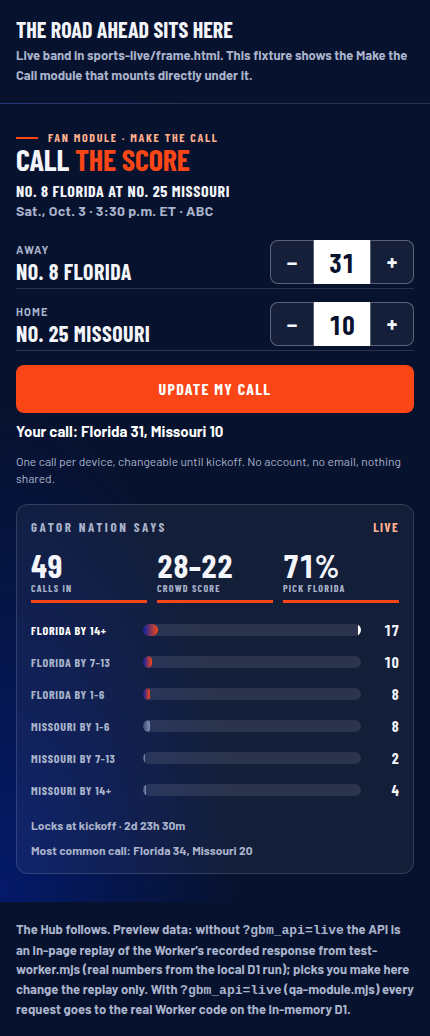
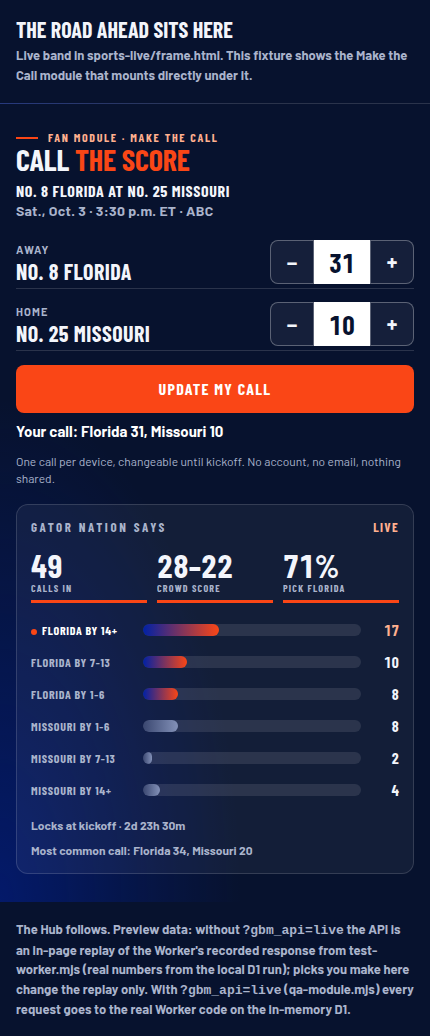
Department ideas, round two: Web ships Make the Call, score picks on a Cloudflare Worker and D1, proved locally and in the browser
29 Worker checks pass on an in-memory D1 shim and under wrangler dev; 6 Playwright checks at 320/390/430/1365 show no overflow and zero layout jump. Dev database gatorbait-dev-make-the-call created in the account with the schema and one seeded game row; nothing deployed.

Claude-Session: https://claude.ai/code/session_01QUnBu7zkHLGEmUEfSvE4Wp

Changed region(s): [[0.3326, 0.5869, 0.514, 0.7722], [0.0605, 0.5869, 0.2721, 0.6178], [0.907, 0.5869, 0.9372, 0.6178]]

diff --git a/deploy/dept-ideas/web/module.css b/deploy/dept-ideas/web/module.css
@@ -44,10 +44,11 @@
 #gbm-live.fp26 #gbm-call .bins li{display:grid;grid-template-columns:104px minmax(0,1fr) 30px;align-items:center;gap:8px;height:26px}
 #gbm-live.fp26 #gbm-call .bins .lb{font:700 12px/1 var(--fp-cond);letter-spacing:.06em;text-transform:uppercase;color:var(--mut);white-space:nowrap;overflow:hidden;text-overflow:ellipsis}
 #gbm-live.fp26 #gbm-call .bins li.mine .lb{color:#fff}
+#gbm-live.fp26 #gbm-call .bins li.mine .lb::before{content:"";display:inline-block;width:6px;height:6px;border-radius:50%;background:var(--o);margin:0 5px 1px 0;vertical-align:middle}
+#gbm-live.fp26 #gbm-call .bins li.mine b{color:#ffb08f}
 #gbm-live.fp26 #gbm-call .bins .bar{position:relative;height:12px;border-radius:6px;background:rgba(255,255,255,.1);overflow:hidden}
 #gbm-live.fp26 #gbm-call .bins .bar i{position:absolute;left:0;top:0;bottom:0;width:0;background:linear-gradient(90deg,var(--b),var(--o));border-radius:6px;transition:width .9s cubic-bezier(.2,.7,.2,1)}
 #gbm-live.fp26 #gbm-call .bins li.opp .bar i{background:linear-gradient(90deg,#3a4770,#8391b8)}
-#gbm-live.fp26 #gbm-call .bins li.mine .bar::after{content:"";position:absolute;right:0;top:0;bottom:0;width:3px;background:#fff}
 #gbm-live.fp26 #gbm-call .bins b{font:800 15px/1 var(--fp-cond);font-variant-numeric:tabular-nums;text-align:right}
 #gbm-live.fp26 #gbm-call .lock{display:flex;justify-content:space-between;gap:8px 16px;flex-wrap:wrap;margin:0;min-height:20px;font:600 12px/1.4 var(--fp-sans);color:var(--mut)}
 #gbm-live.fp26 #gbm-call .lock b{color:#fff;font-weight:700}

diff --git a/deploy/dept-ideas/web/PITCH.md b/deploy/dept-ideas/web/PITCH.md
@@ -1,37 +1,45 @@
-# Read Next — a smart related-story rail for every article page
+# Make the Call
 
-## 1) The idea (two sentences)
+## The idea
 
-Read Next is a three-card rail at the end of every gatorbaitmedia.com story that picks the next stories for that reader by shared opponent, player and coach names, same writer and freshness, using the feed the homepage already has in hand, and it never shows a story the reader has already opened on that device. It replaces "2–3 genuinely related stories, not a generic feed dump" (docs/ARTICLE-PAGE-STANDARD.md) as a hand-picked chore with something that is right on every story, including the ones nobody had time to tag.
+A score-pick module under The Road Ahead on the front page: a fan types Florida's score and Missouri's score, taps Lock my call, and sees Gator Nation's live distribution (calls in, the crowd's average score, the share picking Florida, six margin bins and the most common exact call). Picks lock at kickoff, one call per device with no account, and the whole thing runs on a Cloudflare Worker with a D1 database that exists in the account today and is exercised end to end by tests in this folder. Round one's Read Next is dropped; the fans desk's round-one Make the Call name survives because it now runs on a real backend.
 
-## 2) Why readers or revenue care
+## Why it matters
 
-- Today Wix's related-posts block only shows stories an editor typed in by ID, up to three, and posts published fast go out with one or none (docs/RELATED-STORIES-2026-09-23.md). A reader who finishes Buddy Martin's "Put Down the Poll, Gators. Missouri Is Waiting" (https://www.gatorbaitmedia.com/post/put-down-the-poll-gators-missouri-is-waiting-and-there-s-a-new-definition-for-one-game-at-a-time) should see "Show-Me State of Mind: A First Look at No. 25 Missouri" (https://www.gatorbaitmedia.com/post/first-look-missouri-florida-gators-show-me-state-of-mind) and "Pay the Toll: Sumrall Buries the Ole Miss Win, Braces for 'Bloody Tuesday' Before Missouri" (https://www.gatorbaitmedia.com/post/pay-the-toll-sumrall-buries-the-ole-miss-win-braces-for-bloody-tuesday-before-missouri). The demo makes exactly that pick, and shows why on each card ("Missouri", "Sumrall", "poll").
-- Game week is the moment: Florida is 4-0 and No. 8, next at No. 25 Missouri, Sat., Oct. 3, 3:30 p.m. ET on ABC (ESPN, sports-live/scoreboard.json). Every Missouri story feeds every other Missouri story all week without an editor lifting a finger.
-- Revenue lever is pages per session. Each extra story read is one more set of ad impressions and one more pass by the Join All Access button. Assumption, not a measurement: if one reader in 10 taps one more story, article page views rise about 10%. The rail sets `data-rn-pick` on each card so the existing analytics can count taps and prove or kill that number in two weeks.
-- The "N new since your last visit" pill gives the return visitor a reason to go back to the front page. Everything is device-local (localStorage), no login, no member or email data touched, nothing sent anywhere.
+- It is the first thing on gatorbaitmedia.com a reader does instead of reads, and it renews itself: Missouri on Sat., Oct. 3, 3:30 p.m. ET (ABC), then South Carolina, at Texas, at Georgia. The game comes from `sports-live/scoreboard.json` (ESPN event 401856708), so the module follows the schedule with no data entry.
+- The crowd number is content. "Gator Nation's call: Florida 28, Missouri 22, 71 percent pick Florida" is a line for Buddy's Friday column and the show, measured, not guessed. (Those figures are from the local test crowd in `recorded.json`, not real fans.)
+- A pick is a reason to return Saturday night and again next week. Wix Analytics' returning-visitor share measures that from week one.
+- Cost of running it: Cloudflare's free Workers and D1 tiers cover a game Saturday (the Worker caches the crowd read for 10 seconds at the edge; writes are one row per fan). No new repo, scheduler or renderer: `module.js` mounts from `front-page.js` with three lines, listed in its header.
 
-## 3) How it is built (files, embed size, data source, effort in hours, how it fits the 15,000-character limit)
+## Evidence
 
-- Files: `sports-live/src/read-next.js` and `read-next.css` (new, about 5,500 characters combined after the same comment-stripping build as the homepage), built by a 20-line addition to `sports-live/build-front-page.mjs` into `sports-live/read-next.js`, served from jsDelivr at the commit `sports-live/current.json` already points at, so a build and a rollback are the same one-line pointer change the homepage uses (deploy/front-page-2026/README.md).
-- Embed: one Wix custom-code embed on blog post pages, body end, about 700 characters: the same V3 pointer loader pattern as Home Code (1,063 characters today). Well under 15,000; the article page's existing embeds are untouched. Nothing on the homepage changes.
-- Data source, in this order: (1) the homepage's `sessionStorage` `gbm-public-feed` cache, good for 15 minutes, so a reader who came from the front page costs zero extra requests; (2) one same-origin fetch of `/blog-feed.xml` (the homepage's own path); (3) `presidente49.github.io/gatorbait-media-redesign/gazette-live/posts.json`. Opponent names come bundled at build time from ESPN's schedule in `sports-live/scoreboard.json` (Missouri, South Carolina, Texas, Georgia, Oklahoma, Kentucky, Vanderbilt, Florida State); player and coach names come from a 30-word list in `front-page.config.json` that Brenden or the desk edits.
-- Ranking, all client side: shared lexicon terms times 3, same writer +1, minus 0.4 per day old; the current story and anything in the device's read list are excluded; top three render. A story with no match still gets the three freshest unread stories, so the rail is never empty.
-- No-jump: the rail reserves its height before paint (`min-height`), paints once inside the 1.5-second budget the homepage uses, and never repaints. Barlow and Barlow Condensed only, Swamp Night tokens, 44 px tap targets, `aria-label="Read next"`.
-- Effort: 6 hours build, 2 hours Playwright QC at 320/390/430/1365 using the existing `live-presentation-qc.yml` pattern, 1 hour to write the deploy and rollback notes. About 9 hours total, no new services, no scheduler, no server.
+Cloudflare Developer Platform (read-only proofs, then one reversible create):
+- `workers_list` → `{"workers":[],"count":0}` (no Worker deployed; nothing touched).
+- `kv_namespaces_list` → one namespace, `GATORBAIT_SOCIAL_KV` (`b2b1b70ae87047d6ac380b9a839780ef`). KV was not used: its free tier allows 1,000 writes a day.
+- `d1_databases_list` → empty before this work.
+- `d1_database_create` → **`gatorbait-dev-make-the-call`, id `9d7f90bc-8b98-4182-a4b0-69ab0e9ddc7b`**, region ENAM, created 2026-09-30T05:15:42Z. Reversible; delete it if the idea is not wanted.
+- `d1_database_query` x4 on that id: `CREATE TABLE games`, `picks`, `rate_limits` (each `success:true`, served by v3-prod ATL, `changed_db:true`), then the seed `INSERT ... RETURNING` → `{"id":"401856708","away":"Florida","home":"Missouri","kickoff":"2026-10-03T19:30:00Z","created_at":"2026-09-30T09:37:21Z"}`. Schema in `schema.sql`.
+- `search_cloudflare_documentation` (D1 Worker API): `batch()` runs as one transaction, which is how the Worker tells a first pick (201) from an update (200).
 
-## 4) What it needs from Brenden
+Local proof (full output in `TEST.md`):
+- `node deploy/dept-ideas/web/test-worker.mjs`: executes `worker.mjs`'s fetch handler against an in-memory D1 shim (`d1-shim.mjs`, Node's built-in SQLite, same schema file). **29 of 29 checks pass**: health, CORS preflight allowed for gatorbaitmedia.com and refused for another origin, six-bin distribution, 201 first pick and 200 update, tie/range/token/JSON/body-size rejections, 403 without an allowed Origin, 6 POSTs a minute per IP then 429 with Retry-After, lock at kickoff (409) and after, tokens stored only as SHA-256 hashes. It writes `recorded.json` and plants that response into `preview.html`.
+- `wrangler dev --local` (wrangler 4.144.0 installed in the scratchpad, real workerd, local D1 loaded from `schema.sql` with `wrangler d1 execute --local`): curl got `/v1/health` 200 with the CORS headers, a first pick, a same-token update as HTTP 200, a cross-origin POST as 403, and the distribution GET. Nothing was deployed; the `.wrangler` scratch directory was removed.
+- `node deploy/dept-ideas/web/qa-module.mjs`: Playwright serves `preview.html` as `https://www.gatorbaitmedia.com/` and routes every API call from the browser into `worker.mjs` on the shim. **6 of 6 runs pass** at 320, 390, 430 and 1365, plus a locked (after kickoff) and a reduced-motion run: no horizontal overflow, every button and input at least 44 px, Barlow only, the section's height identical at paint, after the crowd loads and after a submit (no jump), 48 seeded calls shown, the steppers and submit produce "Your call: Florida 31, Missouri 24 · counted" and the count rises to 49, a tie is refused in place, an update returns "updated", and after a reload the device still shows its call. 21 Worker requests served during the browser run. Screenshots in `shots/`.
 
-1. A yes on the placement: below the story body, above Wix's native related-posts block (which stays as is) or replacing that block's spot. The demo shows the below-body placement.
-2. The 30-word name list to start with (players and coaches worth matching on). I can draft it from the last 20 stories in `gazette-live/posts.json` for approval.
-3. Confirmation that the rail may go on Magazine stories too, or Front Page stories only. Either way a story keeps one canonical URL and one primary home; the rail links, it never duplicates.
-4. Controller sign-off for the one Wix write (a new embed on blog post pages) through Master Control, with the rev-22-style rollback recorded first.
+Files: `worker.mjs` (9.1 KB), `schema.sql`, `wrangler.toml`, `module.js` (12.2 KB), `module.css` (7.9 KB), `d1-shim.mjs`, `test-worker.mjs`, `qa-module.mjs`, `recorded.json`, `preview.html` (4.4 KB; loads the module against the recorded Worker response, or the live Worker code with `?gbm_api=live`), `TEST.md`, `shots/`.
 
-## 5) Risks
+## What it needs from Brenden
 
-- Wrong-feeling picks: keyword matching is not editorial judgment. Mitigation: the "why" chips make every pick explainable, the lexicon is a config file, and an editor's manual `relatedPostIds` still win the top slot when present.
-- Embed failure mode: the September blank-homepage incident (docs/INCIDENT-2026-09-15-HOMEPAGE-BLANK.md) came from custom embeds. Mitigation: the rail is a leaf element added at body end, wrapped in try/catch, renders nothing on any error, and is behind the same pointer loader that rolls back in one commit.
-- Second front-end fetch on article pages: docs/RELATED-STORIES warns against another front-end fetch to fill native slots. This is a separate, labeled rail, uses the cache first, and makes at most one same-origin request. Brenden should decide whether that trade is acceptable.
-- Wix blog DOM changes could move the mount point. Mitigation: mount by the article `<article>` element, fall back to the end of `main`, and the QC workflow screenshots the page after every build.
-- Storage blocked (private browsing, consent settings): the rail still works, it just cannot remember what was read. All storage reads and writes are wrapped in try/catch.
-- Measurement: the 10% figure is an assumption. Ship with the `data-rn-pick` markers and read the numbers before calling it a win.
+1. A yes on one additive section under The Road Ahead. The homepage look lock was lifted Sept. 29; this is still a visible front-page change and goes through Jarvis with a rollback (the three-line mount in `front-page.js` comes out as one commit).
+2. Jarvis deploys the Worker: `wrangler deploy` from this folder with `wrangler.toml` as written (it binds the dev D1 above; or create a production D1, apply `schema.sql`, change one id). Then set the module's API constant (or `window.__GBM_CALL_API__` in the loader) to the workers.dev URL. Until then the module paints with dashes and no error: nothing jumps.
+3. Confirm the rules: no ties, one call per device, edits until kickoff, 6 posts a minute per IP. Say whether the crowd figures should hide below a threshold (today the line reads "Early returns" under five calls).
+4. Ten seconds on Wednesday's show: "Call the score at gatorbaitmedia.com." The kickoff in `games` must be updated by hand if ESPN moves a game time; one SQL line.
+
+## Risks
+
+- No account means a fan with several devices can make several calls. Mitigation: per-IP rate limits, hashed tokens, no prizes without a separate verification step. The number is a crowd meter, not a contest.
+- A quiet week looks quiet. Mitigation: the threshold in item 3 and show promotion before Missouri.
+- The final-score column exists in `games` but nothing scores picks yet; "you got it right" is a follow-up, not this pitch.
+- The homepage would call a workers.dev origin. It already fetches presidente49.github.io; CORS is limited to gatorbaitmedia.com and the Worker never sets cookies. If the Worker is down, the module shows dashes and the form reports "No connection"; the front page itself is unaffected.
+- Cloudflare's free D1 daily limits are generous for this traffic, but a viral Saturday would need the paid Workers plan; that decision is Brenden's, not automatic.
+- Device time can disagree with the server. The server is the lock authority: a stale page gets a 409 and locks itself.

diff --git a/deploy/dept-ideas/web/TEST.md b/deploy/dept-ideas/web/TEST.md
@@ -1,0 +1,110 @@
+# Make the Call: test record (Sept. 30, 2026)
+
+Everything below ran in the Claude Code container against the code in this folder. Nothing was deployed. Node 22.22.2, wrangler 4.144.0 (scratchpad install), Playwright 1.56.1 with Chromium 1194, Barlow and Barlow Condensed installed locally so the shots use the real faces.
+
+## 1. Cloudflare account (MCP `Cloudflare_Developer_Platform`)
+
+| Call | Result |
+|---|---|
+| `workers_list` | `{"workers":[],"count":0}` |
+| `kv_namespaces_list` | `GATORBAIT_SOCIAL_KV` `b2b1b70ae87047d6ac380b9a839780ef` (not used) |
+| `d1_databases_list` | `[]` before this work |
+| `d1_database_create name=gatorbait-dev-make-the-call hint=enam` | `uuid 9d7f90bc-8b98-4182-a4b0-69ab0e9ddc7b`, `created_at 2026-09-30T05:15:42.615Z`, region ENAM |
+| `d1_database_query` CREATE TABLE games | `success:true`, served_by v3-prod ATL, `size_after 20480` |
+| `d1_database_query` CREATE TABLE picks | `success:true`, `size_after 28672` |
+| `d1_database_query` CREATE TABLE rate_limits | `success:true`, `size_after 36864` |
+| `d1_database_query` INSERT OR IGNORE games ... RETURNING | `{"id":"401856708","away":"Florida","home":"Missouri","kickoff":"2026-10-03T19:30:00Z","created_at":"2026-09-30T09:37:21Z"}`, `changes:1` |
+
+The real dev D1 therefore holds the three tables from `schema.sql` and the Missouri game row. No picks were written to it.
+
+## 2. Worker harness: `node --no-warnings deploy/dept-ideas/web/test-worker.mjs`
+
+`worker.mjs`'s `fetch(request, env)` runs unmodified; `env.DB` is `d1-shim.mjs` (Node's built-in SQLite loaded with `schema.sql`); `env.NOW_OVERRIDE` pins the clock to 2026-09-30T20:00:00Z and, for the lock checks, to kickoff.
+
+```
+ok   GET /v1/health 200  2026-09-30T20:00:00Z
+ok   OPTIONS preflight from gatorbaitmedia.com 204 + CORS  GET, POST, OPTIONS
+ok   OPTIONS preflight from other origin 403, no ACAO
+ok   GET game empty: count 0, six bins, not locked  public, max-age=10, s-maxage=10
+ok   GET game carries ACAO + Vary
+ok   GET unknown game 404
+ok   POST first pick 201, yours echoed, count 1  {"fla":34,"opp":20}
+ok   POST same token again 200 (update), count still 1, bin moved
+ok   POST tie 422  no ties: pick a winner
+ok   POST score 120 422
+ok   POST fractional score 422
+ok   POST bad token 422
+ok   POST invalid JSON 400
+ok   POST from other origin 403
+ok   POST with no Origin 403
+ok   POST valid pick from allowed origin 201; voter stored as a hash, never the token
+ok   POST oversized body 413
+ok   rate limit: 6 POSTs/min pass, 7th and 8th from same IP 429 with Retry-After  201,201,201,201,201,201,429,429 retry-after=60
+ok   rate limit: IP .7 spent by its six earlier POSTs (invalid ones count)
+ok   rate limit: next minute window passes again
+ok   rate limit: GET budget separate from POST
+ok   distribution: bins sum to count  count=49 sum=49 avg=27-20 flaShare=0.76
+ok   distribution: most common call is 34-20  {"fla":34,"opp":20,"n":6}
+ok   distribution: opponent name in bin labels  Florida by 14+=17 | Florida by 7-13=13 | Florida by 1-6=7 | Missouri by 1-6=6 | Missouri by 7-13=2 | Missouri by 14+=4
+ok   one second before kickoff: not locked
+ok   one second before kickoff: pick accepted
+ok   at kickoff: GET reports locked
+ok   at kickoff: POST 409 locked  2026-10-03T19:30:00Z
+ok   an hour in: existing voter cannot change a pick either
+
+picks rows=50 rate_limit rows=54 checks=29 failures=0
+All Worker checks passed.
+```
+
+## 3. `wrangler dev --local` (real workerd, local D1)
+
+```
+$ wrangler d1 execute gatorbait-dev-make-the-call --local --file schema.sql --persist-to <scratchpad>/wrangler-state
+$ wrangler dev --local --port 8787 --persist-to <scratchpad>/wrangler-state
+
+$ curl -i -H "Origin: https://www.gatorbaitmedia.com" http://127.0.0.1:8787/v1/health
+HTTP/1.1 200 OK
+Content-Type: application/json; charset=utf-8
+Access-Control-Allow-Origin: https://www.gatorbaitmedia.com
+Vary: origin
+access-control-allow-headers: content-type
+access-control-allow-methods: GET, POST, OPTIONS
+access-control-max-age: 86400
+x-content-type-options: nosniff
+{"ok":true,"serverTime":"2026-09-30T09:45:46Z"}
+
+$ curl -X POST -H "Origin: https://www.gatorbaitmedia.com" -H "content-type: text/plain" \
+    --data '{"gameId":"401856708","fla":31,"opp":24,"token":"wrangler_dev_token_0001"}' http://127.0.0.1:8787/v1/pick
+{"ok":true,"yours":{"fla":31,"opp":24},"gameId":"401856708","away":"Florida","home":"Missouri","flaHome":false,"kickoff":"2026-10-03T19:30:00Z","locked":false,"final":null,"count":1,"avg":{"fla":31,"opp":24},"flaShare":1,"bins":[{"key":"fla14","label":"Florida by 14+","n":0,"share":0},{"key":"fla7","label":"Florida by 7-13","n":1,"share":1},...],"top":{"fla":31,"opp":24,"n":1},"serverTime":"2026-09-30T09:45:46Z"}
+
+$ (same token, 27-24)            -> second POST same token: HTTP 200
+$ (Origin: https://evil.example) -> evil origin: HTTP 403
+$ curl -H "Origin: https://www.gatorbaitmedia.com" http://127.0.0.1:8787/v1/game/401856708
+{"gameId":"401856708",...,"count":1,"avg":{"fla":27,"opp":24},"flaShare":1,"bins":[...,{"key":"fla1","label":"Florida by 1-6","n":1,"share":1},...],"top":{"fla":27,"opp":24,"n":1},...}
+```
+
+wrangler dev was stopped afterwards and its `.wrangler` scratch directory deleted from this folder. That run used the pre-fix build of the update check (same-second edge); the harness in section 2 is the current code.
+
+## 4. Browser QA: `NODE_PATH=<scratchpad>/node_modules node --no-warnings deploy/dept-ideas/web/qa-module.mjs deploy/dept-ideas/web/shots`
+
+Playwright serves `preview.html?gbm_api=live` as `https://www.gatorbaitmedia.com/` (real origin, like `sports-live/qa-front-page.mjs`), serves `module.js`, `module.css` and `sports-live/src/front-page.css` from disk, aborts every other request, and routes `https://gatorbait-make-the-call.workers.dev/**` into `worker.mjs` on the shim after seeding 48 picks through the Worker. Checks per run: one root, no horizontal overflow, nothing past the viewport, every `button`/`input` at least 44x44, no serif or Arial, section height identical at paint, after the crowd feed and after a submit, feed landed, count 48, "Most common call: Florida 34, Missouri 20", "Locks at kickoff · 2d 23h 30m", bins sum to 48; then 31 taps on the Florida plus stepper, Missouri 24, submit → "Your call: Florida 31, Missouri 24 · counted", count 49, own bin highlighted (Florida by 7-13); tie refused in place; update to 31-10 → "updated", bin moves to Florida by 14+; reload → state `set`, button "Update my call", value 31 kept, count 49. Locked run pins the clock 10 minutes after kickoff and expects the disabled form; reduced-motion run expects the same numbers without transitions.
+
+```
+ok   pick@320         h=808 count=48 avg=28–22 fla=71% state=pick lock="Locks at kickoff · 2d 23h 30m" 
+ok   pick@390         h=799 count=48 avg=28–22 fla=71% state=pick lock="Locks at kickoff · 2d 23h 30m" 
+ok   pick@430         h=799 count=48 avg=28–22 fla=71% state=pick lock="Locks at kickoff · 2d 23h 30m" 
+ok   pick@1365        h=536 count=48 avg=28–22 fla=71% state=pick lock="Locks at kickoff · 2d 23h 30m" 
+ok   locked@390       h=799 count=48 avg=28–22 fla=71% state=locked lock="Picks locked at kickoff" 
+ok   reduced-motion@390 h=799 count=48 avg=28–22 fla=71% state=pick lock="Locks at kickoff · 2d 23h 30m" 
+
+API calls served by worker.mjs during the browser run: 21
+All Make the Call module checks passed.
+```
+
+Screenshots: `shots/call-pick-320.png`, `call-pick-390.png`, `call-pick-430.png`, `call-pick-1365.png`, `call-locked-390.png`, `call-reduced-motion-390.png` (full page, taken after the interaction, so they show the device's own call and 49 calls in).
+
+## 5. Not tested
+
+- The Worker against the real dev D1 over the network (`wrangler dev --remote` or a deploy): Jarvis's step.
+- Physical iPhone/Android; these are Chromium viewport emulations.
+- `node sports-live/qa-front-page.mjs` was not rerun because `sports-live/src` is untouched; the module is not yet mounted from `front-page.js` (three lines, see `module.js` header).
